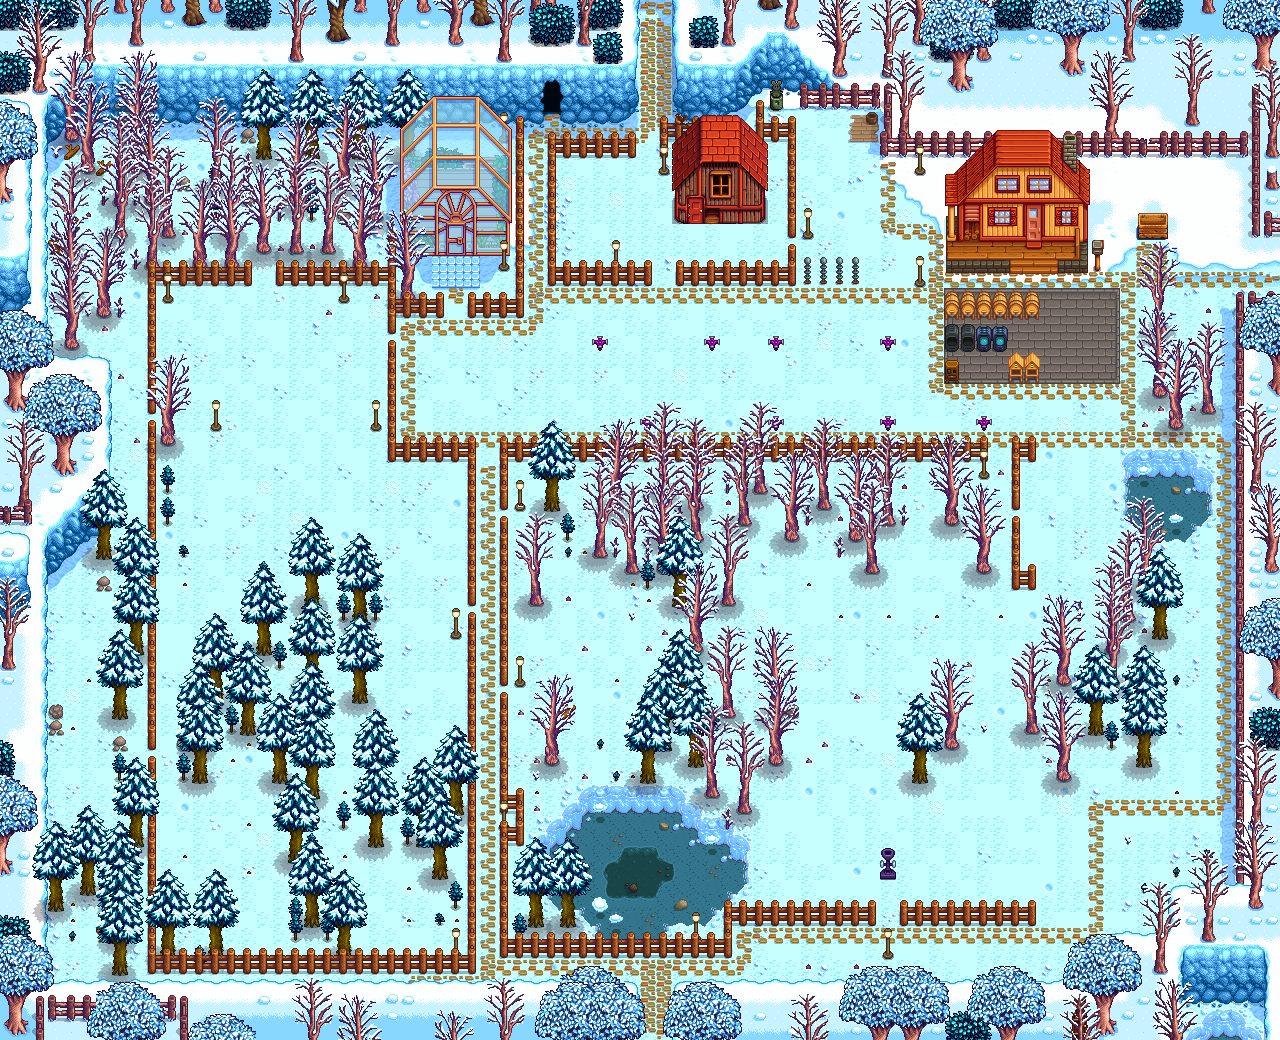
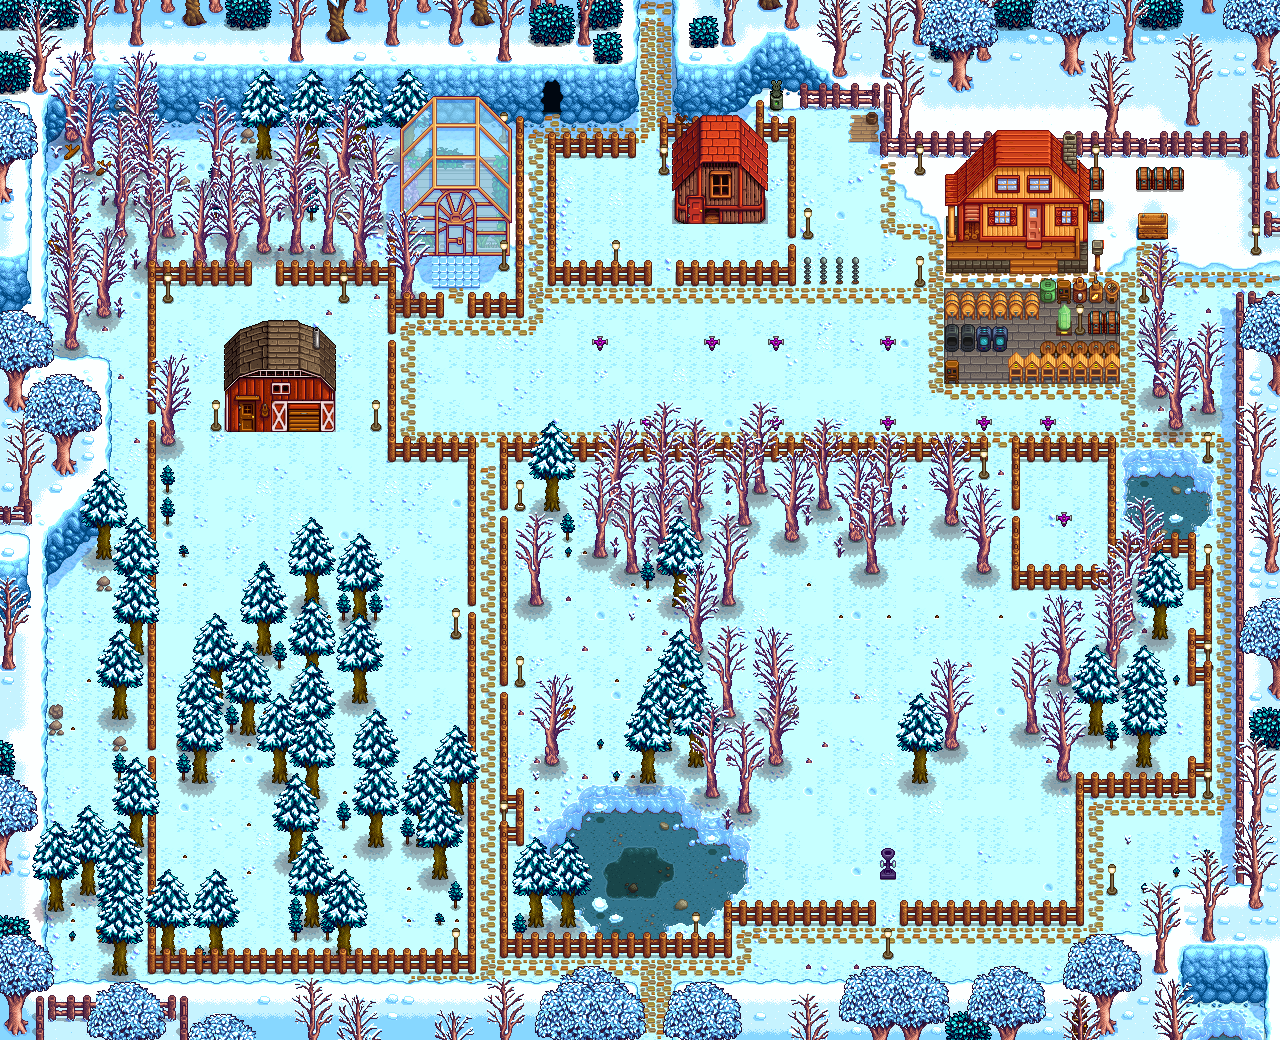
view/: support barns
Fixes #18

diff --git a/view/draw_building.go b/view/draw_building.go
@@ -44,6 +44,19 @@ func drawBuilding(pm *parser.Map, building *parser.Building, img draw.Image) {
 			building.TileY*m.TileHeight + building.TilesHigh*m.TileHeight,
 		}
 		sb.Draw(img, topLeftAlign(sr, dp), src, sr.Min, houseLayer)
+	case "Barn":
+		// Door. TODO: open or closed.
+		sr := xnaRect(0, 112, 32, 16)
+		r := sr.Sub(sr.Min).Add(image.Point{
+			(building.TileX + building.AnimalDoor.X) * m.TileWidth,
+			(building.TileY + building.AnimalDoor.Y) * m.TileHeight,
+		})
+		sr = xnaRect(0, 0, 112, 112)
+		dp := image.Point{
+			(building.TileX * m.TileWidth),
+			building.TileY*m.TileHeight + building.TilesHigh*m.TileHeight,
+		}
+		sb.Draw(img, topLeftAlign(sr, dp), src, sr.Min, houseLayer)
 
 	default:
 		return
